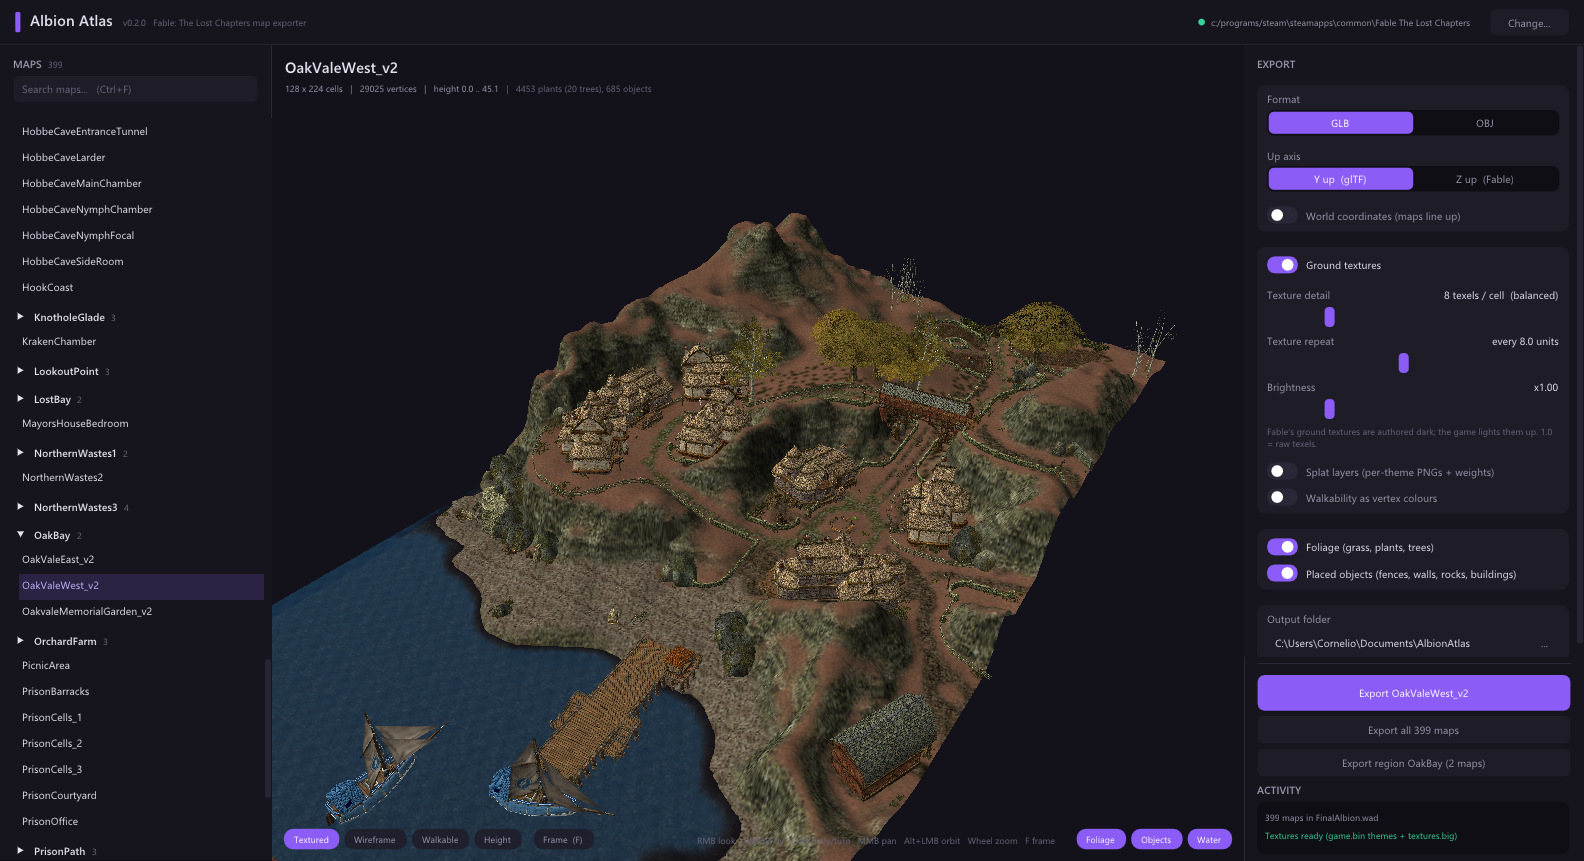
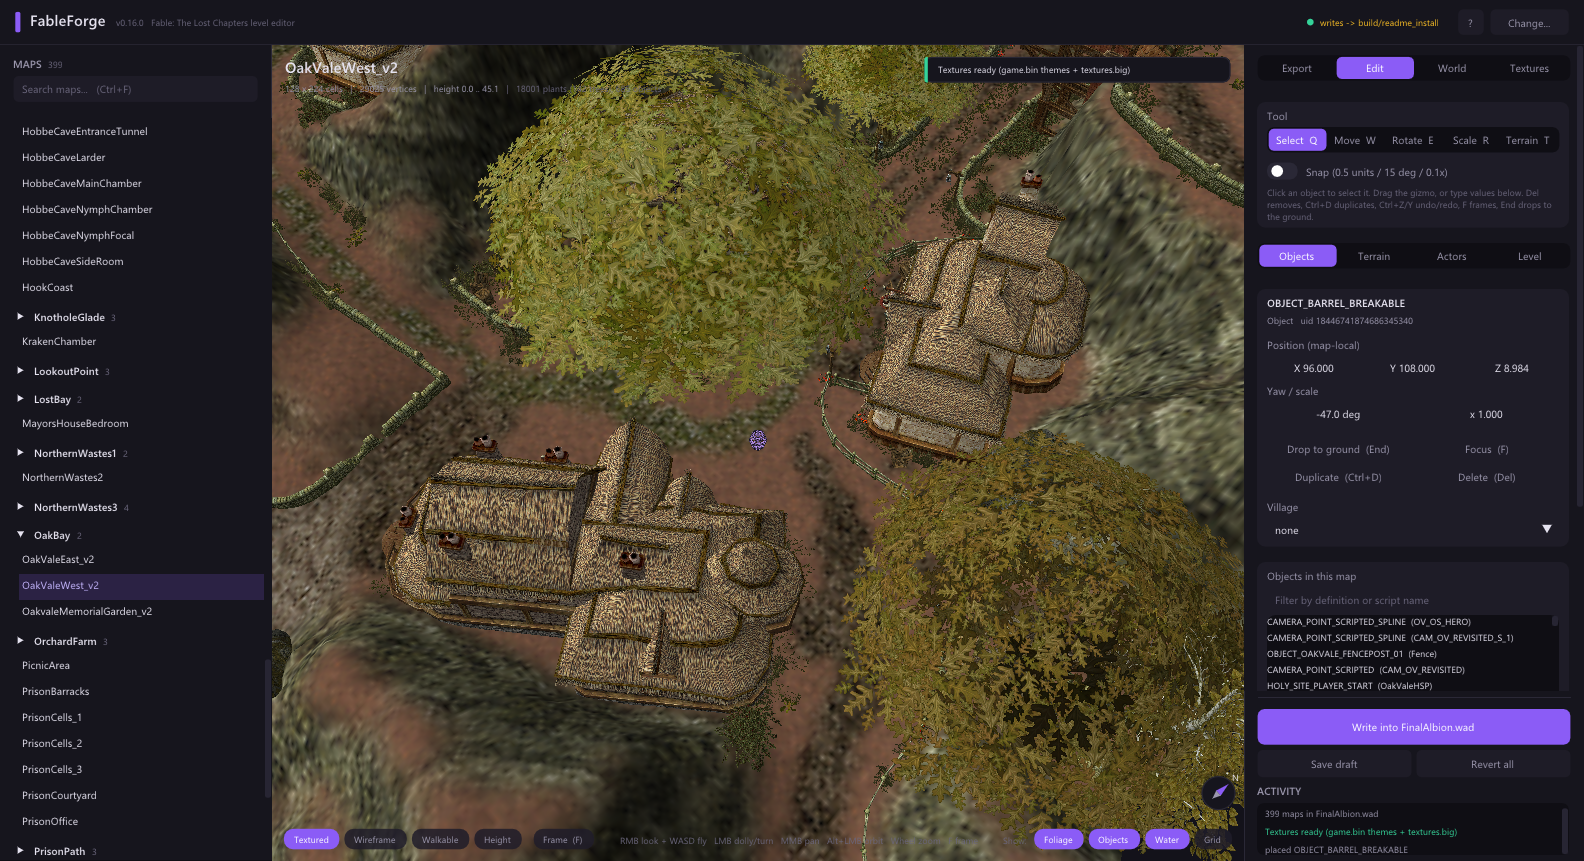
docs: fresh README screenshots from the current editor (scripted, reproducible)
The three README images were Albion Atlas exporter views. tests/ui/readme_shots.txt now captures
Oakvale in Edit mode (a placed barrel selected, gizmo up), Greatwood on the Terrain tab, and the
Arena from the Export side, at 1600x900 against the retail install with a scratch save root.
RELEASE.md step 4.

diff --git a/docs/RELEASE.md b/docs/RELEASE.md
@@ -19,21 +19,24 @@ the two in-game items are the human part.
    restore + 0-differ check. Two items stay human: the barrel's tint and the preset are judged
    from `build/ingame/release/things/04_after_probe.png`, and the map-screen click into the
    own-region level (the driver proves the region load through ForgeFSE's retail transition).
-4. Version: `CMakeLists.txt` `project(... VERSION x.y.z)` and `README.md`; the zip name and
+4. README screenshots: `build\FableForge.exe --auto tests\ui\readme_shots.txt --size 1600x900`
+   rewrites the three `docs/screenshot_*.png` from the current build (nothing is written to
+   the install; the save root is `build/readme_install`). Look at them.
+5. Version: `CMakeLists.txt` `project(... VERSION x.y.z)` and `README.md`; the zip name and
    the GUI's title come from it.
-5. `python tools/package.py` (runs the suite again unless `--no-check`) ->
+6. `python tools/package.py` (runs the suite again unless `--no-check`) ->
    `dist/FableForge-<version>-win64.zip`: `FableForge.exe`, `forge.exe`, `forge-tools.exe`
    (all `-static`; imports are Windows system DLLs, the UCRT and `D3DCOMPILER_47`, so
    Windows 10/11 needs nothing installed), README, LICENSE, THIRD_PARTY, the user docs,
    the walkthrough, presets, `docs/re_reference` (forge-tools reads `def_schema.json`),
    `docs/modding`.
-6. Unzip on a machine/VM without the repo, point it at a retail Steam install, run
+7. Unzip on a machine/VM without the repo, point it at a retail Steam install, run
    `docs/FIRST_LEVEL.md` end to end (the stranger's test, 1.0-rc #5). Every workaround is a
    bug to fix before tagging.
    *(Local dry run 2026-09-19: the 0.16.0 zip unpacked to a scratch folder found the Steam
    install by itself; `forge list/info/export --foliage --things`, `forge-tools defs list` and the
    GUI through `wait_foliage` all worked from there. The other-machine run is still owed.)*
-7. `git tag v<version>` -> push with tags -> GitHub Actions green (the workflow builds with
+8. `git tag v<version>` -> push with tags -> GitHub Actions green (the workflow builds with
    the same MinGW/CMake profile and runs the offline suite) -> attach the zip to the release.
-8. Post: the Discord thread with the zip link, the walkthrough's first screenshot and the
+9. Post: the Discord thread with the zip link, the walkthrough's first screenshot and the
    engine rules paragraph from `README.md`; note `forge restore` as the way back.

diff --git a/README.md b/README.md
@@ -17,9 +17,9 @@ write the result back into the game. Three small Windows executables, no depende
 Runs on anything with Direct3D 10-class graphics (falls back to the software
 rasterizer if it has to).
 
-![The Arena in FableForge](docs/screenshot_arena.png)
-![Oakvale in FableForge](docs/screenshot_oakvale.png)
-![Greatwood in FableForge](docs/screenshot_greatwood.png)
+![Oakvale in Edit mode: a placed barrel selected, gizmo up](docs/screenshot_oakvale.png)
+![Greatwood: the terrain brush over the autumn canopy](docs/screenshot_greatwood.png)
+![The Arena from the Export side](docs/screenshot_arena.png)
 
 ```
 forge list                             # every map in FinalAlbion.wad
